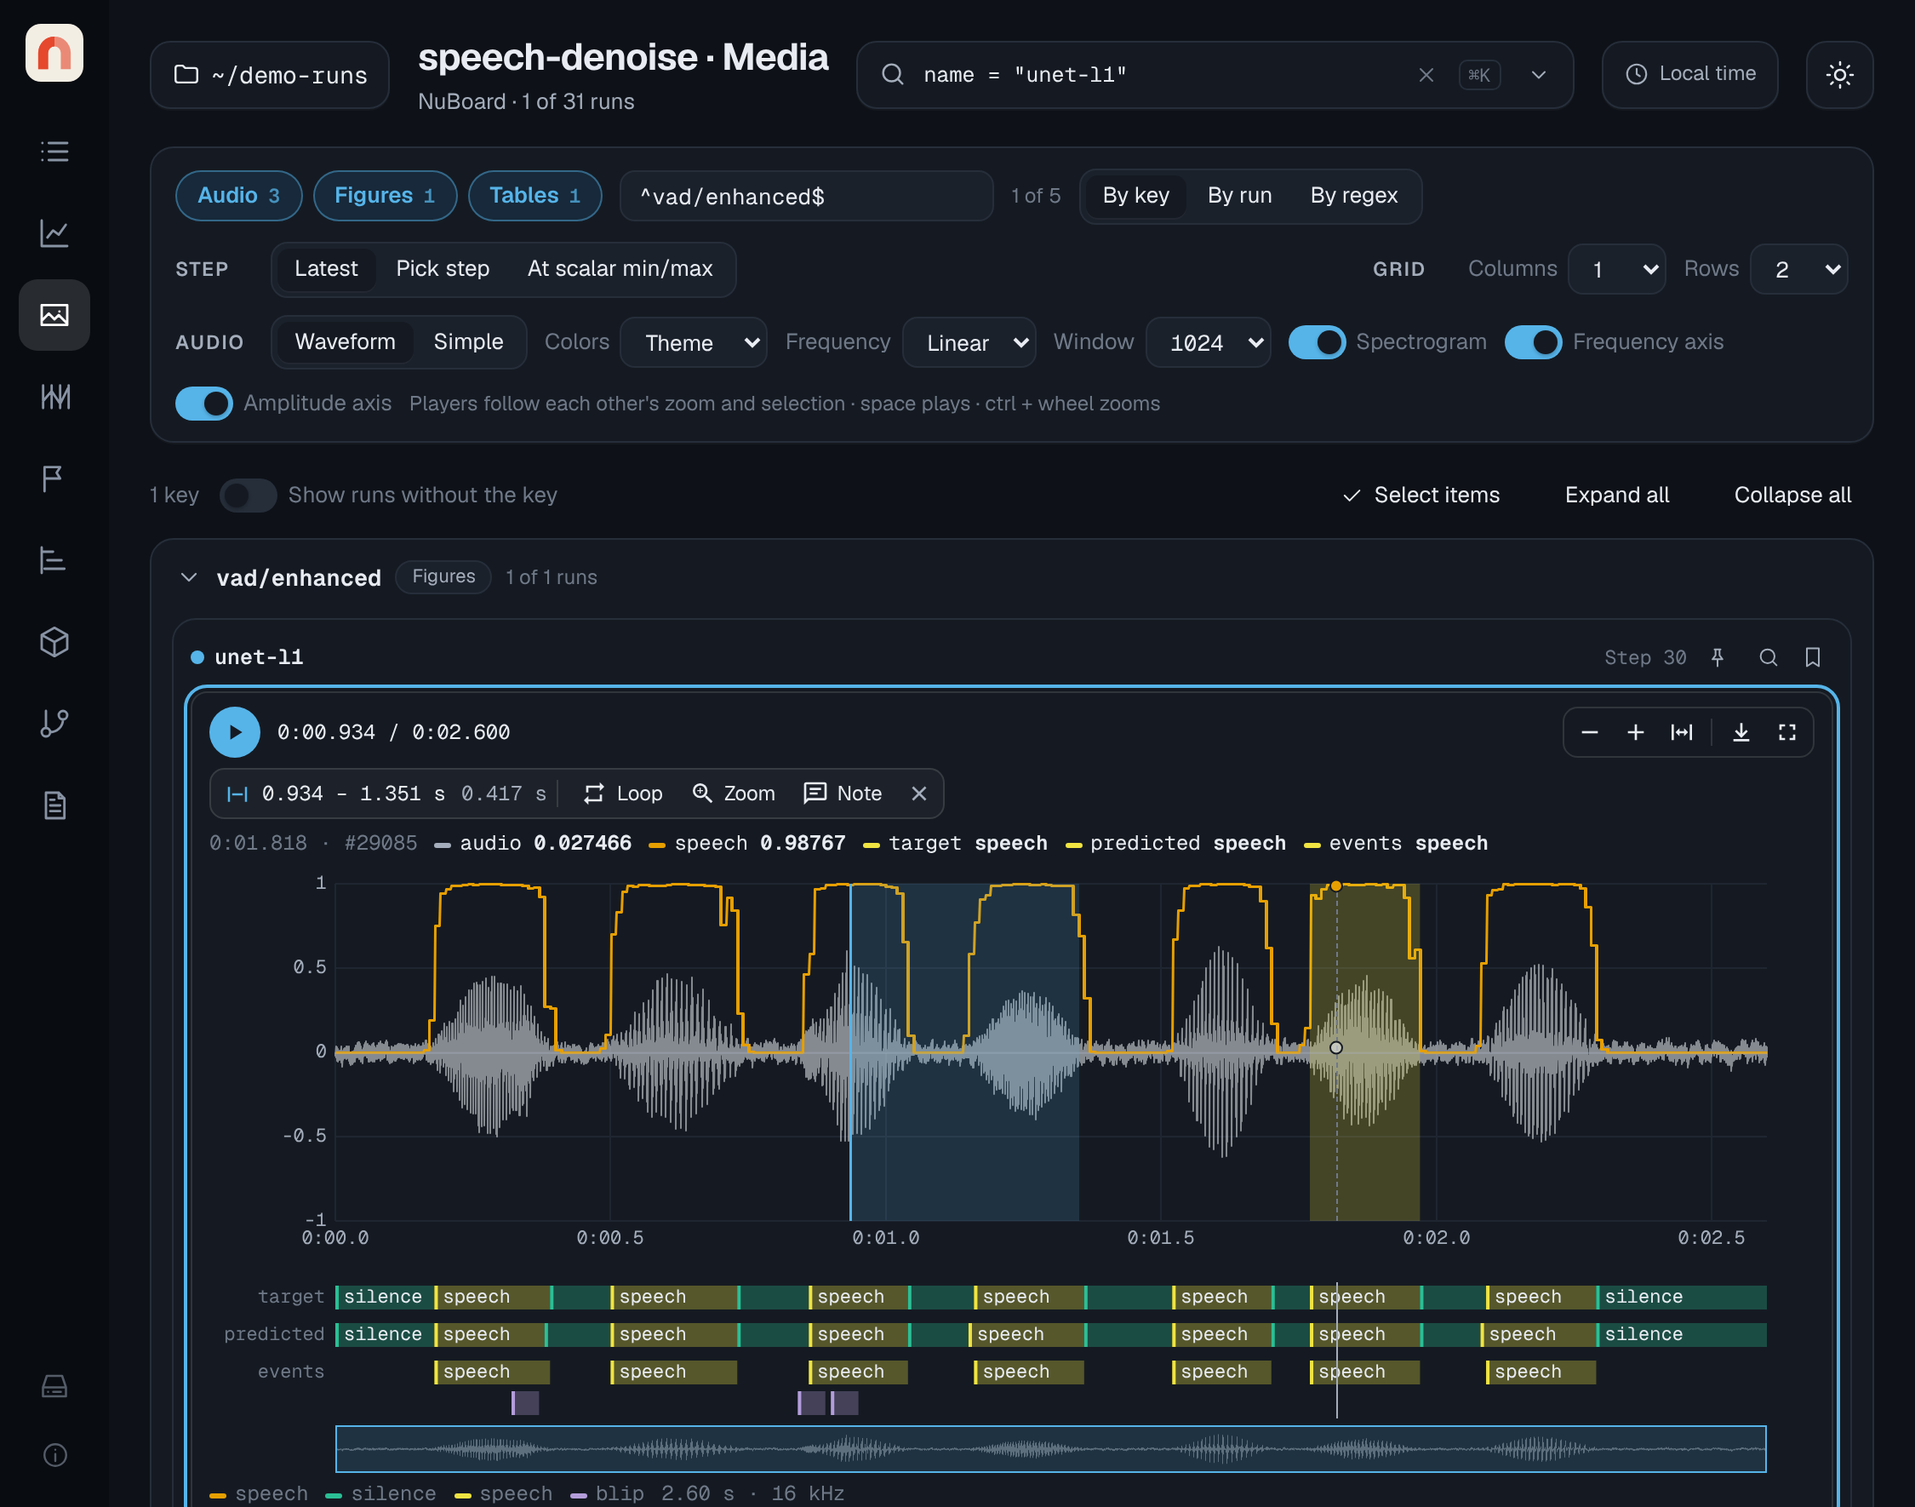
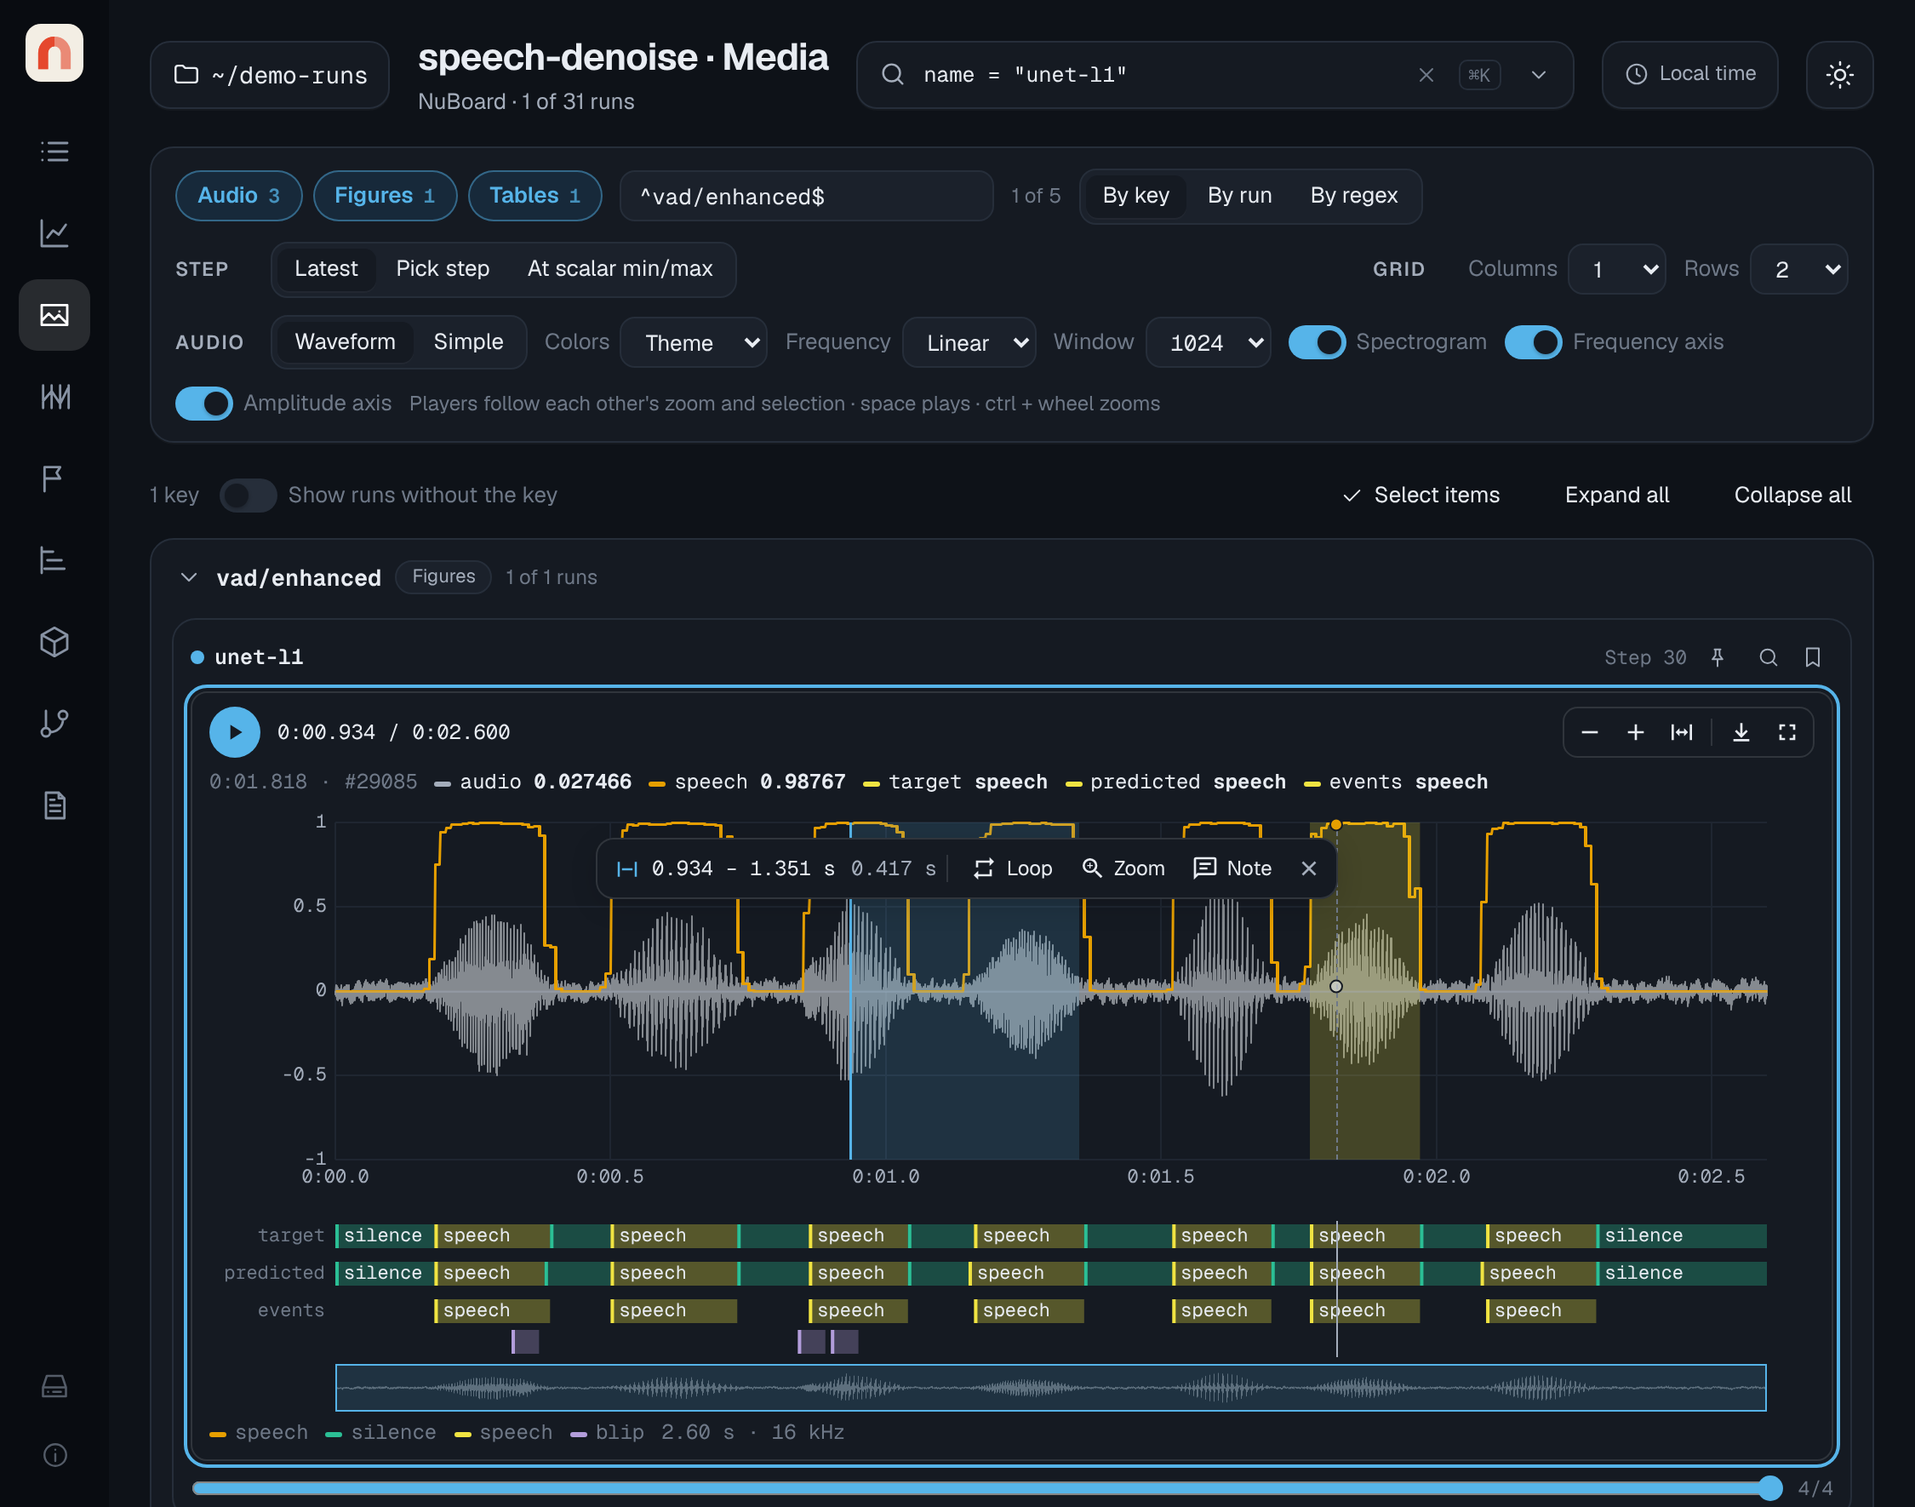
Audio toolbar: selection and band controls float over the waveform, so the player never changes size

Changed region(s): [[0.0933, 0.4972, 0.9644, 1.0], [0.7467, 0.4972, 0.7778, 0.5282]]

diff --git a/frontend/src/lib/waveplot.ts b/frontend/src/lib/waveplot.ts
@@ -142,17 +142,12 @@ export function mountWaveform(
   audio.preload = 'auto';
   audio.hidden = true;
   audio.src = input.audioSrc;
-  // the row under the toolbar is always there, at one height: a hint, the selection's chip, or the
-  // note form while it is open, so the plot never moves when one of them comes or goes
-  const ctx = el('div', 'nbwf-ctx');
-  const ctxHint = el(
-    'span',
-    'nbwf-hint nbwf-ctxhint',
-    editable ? 'Drag to select a section to loop, zoom to or note' : 'Drag to select a section to loop or zoom to',
-  );
-  ctx.append(ctxHint, selBox, form);
-  bar.append(play, time, zoomBox, ctx, read);
-  root.append(bar, notesLane, plotEl);
+  // the selection's controls, and the note form while it is open, float over the top of the plot,
+  // above the selection (see placeFloat), so the figure never changes size when they come or go
+  const floatBox = el('div', 'nbwf-float');
+  floatBox.append(selBox, form);
+  bar.append(play, time, zoomBox, read);
+  root.append(bar, notesLane, plotEl, floatBox);
   if (tracks.length) root.append(lanes);
   root.append(overview, cap, audio);
   // clicking the plot or the overview gives the figure the focus, so Space then plays it (see onKey)
@@ -238,7 +233,7 @@ export function mountWaveform(
       el(
         'span',
         'nbwf-hint',
-        'Hover for values · Ctrl/⌘ + wheel zooms · Shift + wheel scrolls · double-click shows all',
+        `Drag to select${editable ? ' and note' : ''} · Ctrl/⌘ + wheel zooms · Shift + wheel scrolls · double-click shows all`,
       ),
     );
   /** Horizontal position in the plot element of time `t`, in CSS pixels. */
@@ -413,6 +408,25 @@ export function mountWaveform(
     plot.setSelect({ left: a, top: 0, width: Math.max(0, b - a), height: plot.bbox.height / devicePixelRatio }, false);
     selText.textContent = `${sel[0].toFixed(3)} – ${sel[1].toFixed(3)} s`;
     selSpan.textContent = `${(sel[1] - sel[0]).toFixed(3)} s`;
+    placeFloat();
+  };
+  /** Over the top of the plot, centred over the selection (the note form centred), inside the plot. */
+  const placeFloat = () => {
+    if (!plot || (selBox.hidden && form.hidden)) return;
+    const rr = root.getBoundingClientRect();
+    const pr = plotEl.getBoundingClientRect();
+    const left0 = pr.left - rr.left + plot.bbox.left / devicePixelRatio;
+    const w = plot.bbox.width / devicePixelRatio;
+    const width = floatBox.offsetWidth;
+    let x = left0 + (w - width) / 2;
+    if (sel && form.hidden) {
+      const a = Math.max(0, plot.valToPos(sel[0], 'x'));
+      const b = Math.min(w, plot.valToPos(sel[1], 'x'));
+      x = left0 + (a + b) / 2 - width / 2;
+    }
+    x = Math.max(left0 + 8, Math.min(left0 + w - width - 8, x));
+    floatBox.style.left = `${Math.round(x)}px`;
+    floatBox.style.top = `${Math.round(pr.top - rr.top + plot.bbox.top / devicePixelRatio + 8)}px`;
   };
   const noteAtSelection = () =>
     sel ? notes.find((n) => Math.abs(sel![0] - n.start) < 1e-3 && Math.abs(sel![1] - n.end) < 1e-3) : undefined;
@@ -441,11 +455,13 @@ export function mountWaveform(
     saveButton.textContent = note ? 'Save' : 'Add';
     formTime.textContent = `${clock(sel[0], 3)} – ${clock(sel[1], 3)}`;
     form.hidden = false;
+    placeFloat();
     noteText.focus();
   };
   const closeForm = () => {
     form.hidden = true;
     editing = null;
+    placeFloat();
   };
   const save = (next: WaveformNote[]) => {
     notes = next;

diff --git a/frontend/src/audio/player.js b/frontend/src/audio/player.js
@@ -61,6 +61,7 @@
     fsHeader: $('fs-header'),
     fsTitle: $('fs-title'),
     fsClose: $('fs-close'),
+    context: $('context'),
     band: $('band'),
     bandToggle: $('band-toggle'),
     bandLo: $('band-lo'),
@@ -141,7 +142,10 @@
       onRender(event.data.args, event.data.theme);
     }
   });
-  new ResizeObserver(updateHeight).observe(el.player);
+  new ResizeObserver(() => {
+    updateHeight();
+    placeFloat();
+  }).observe(el.player);
   send('streamlit:componentReady', { apiVersion: 1 });
 
   // -------------------------------------------------------------------------
@@ -989,6 +993,7 @@
     showBand();
     requestSpectrogram();
     updateHeight();
+    placeFloat();
 
     if (!fromRemote) broadcast({ type: 'band', band: band, on: bandOn });
   }
@@ -1208,6 +1213,35 @@
     }
 
     updateHeight();
+    placeFloat();
+  }
+
+  //: Float the selection's and band's controls over the top of the
+  //: waveform, centred over the selection (or at the right with only a
+  //: band), and kept inside the waveform
+  function placeFloat() {
+    const box = el.context;
+
+    if (getComputedStyle(box).display === 'none') return;
+
+    const pr = el.player.getBoundingClientRect();
+    const wr = el.waveform.getBoundingClientRect();
+    const width = box.offsetWidth;
+    const lo = wr.left - pr.left + 8;
+    const hi = wr.right - pr.left - width - 8;
+    let left = hi;
+
+    if (selection && ws && ready && el.noteForm.hidden) {
+      const pps = currentPxPerSec();
+      const a = Math.max(0, selection.start * pps - ws.getScroll());
+      const b = Math.min(wr.width, selection.end * pps - ws.getScroll());
+      left = wr.left - pr.left + (a + b) / 2 - width / 2;
+    } else if (!el.noteForm.hidden) {
+      left = wr.left - pr.left + (wr.width - width) / 2;
+    }
+
+    box.style.left = `${Math.round(Math.max(lo, Math.min(hi, left)))}px`;
+    box.style.top = `${Math.round(wr.top - pr.top + 8)}px`;
   }
 
   function applyRemoteSelection(start, end) {
@@ -1277,6 +1311,7 @@
     el.noteSubmit.textContent = note ? 'Save' : 'Add';
     el.noteTime.textContent = `${formatTime(selection.start)} – ${formatTime(selection.end)}`;
     el.noteForm.hidden = false;
+    placeFloat();
     el.noteText.focus();
     updateHeight();
   }
@@ -1287,6 +1322,7 @@
     el.noteForm.hidden = true;
     el.noteText.value = '';
     updateHeight();
+    placeFloat();
   }
 
   function submitNote() {
@@ -1487,12 +1523,14 @@
     ws.on('interaction', (t) => broadcast({ type: 'seek', time: t }));
     ws.on('scroll', (start) => {
       drawRuler();
+      placeFloat();
       requestSpectrogram();
 
       if (ready) broadcast({ type: 'view', pps: currentPxPerSec(), start });
     });
     ws.on('redrawcomplete', () => {
       drawRuler();
+      placeFloat();
       requestSpectrogram();
       updateHeight();
     });

diff --git a/frontend/e2e/viewer.spec.ts b/frontend/e2e/viewer.spec.ts
@@ -507,7 +507,7 @@ test('media page plots waveform figures, with exact values, region lanes, select
   await expect(readout).toContainText(/events\s*((blip|speech)(, (blip|speech))?|–)/);
 
   // dragging across a tenth of the plot selects it, and Zoom in shows just that; the zoom buttons
-  // stay where they were (the selection's controls have a place of their own)
+  // stay where they were (the selection's controls float over the top of the plot)
   const plus = fig.getByRole('button', { name: 'Zoom in', exact: true });
   const plusAt = (await plus.boundingBox())!;
   await page.mouse.move(box.x + box.width * 0.4, box.y + 40);
@@ -518,17 +518,17 @@ test('media page plots waveform figures, with exact values, region lanes, select
   expect(await plus.boundingBox()).toEqual(plusAt);
   await fig.getByRole('button', { name: 'Zoom in to the selection' }).click();
   // the middle of the plot is now the middle of 1.04 to 1.3 s, then of the whole clip again
-  await over.hover({ position: { x: box.width / 2, y: 20 } });
+  await over.hover({ position: { x: box.width / 2, y: box.height * 0.7 } });
   await expect(readout).toContainText(/0:01\.1[5-9]/);
   // the demo's live run makes the page fetch its media again every few seconds: the figure keeps its
   // zoom and selection (it is not mounted again for an equal item)
   await fig.evaluate((el) => (el.dataset.kept = 'yes'));
   await page.waitForTimeout(5000);
   await expect(fig).toHaveAttribute('data-kept', 'yes');
-  await over.hover({ position: { x: box.width / 2, y: 20 } });
+  await over.hover({ position: { x: box.width / 2, y: box.height * 0.7 } });
   await expect(readout).toContainText(/0:01\.1[5-9]/);
   await fig.getByRole('button', { name: 'Fit' }).click();
-  await over.hover({ position: { x: box.width / 2 + 1, y: 20 } });
+  await over.hover({ position: { x: box.width / 2 + 1, y: box.height * 0.7 } });
   await expect(readout).toContainText(/0:01\.(29|30)/);
 
   // a note on the selection is saved with the run, and is there after a reload

diff --git a/frontend/src/audio/player.css b/frontend/src/audio/player.css
@@ -218,18 +218,28 @@ select.seg {
 }
 
 /* The selection and the frequency band, each in a chip under the toolbar */
-/* One row of fixed height, always there, so nothing below it moves when a
-   selection, a band or the note form comes or goes: a hint when it is empty,
-   the chips otherwise (scrolling sideways in a very narrow player), and the
-   note form in place of the chips while it is open */
+/* The selection's and the band's controls float over the top of the
+   waveform, above the selection (see placeFloat), so the player never
+   changes size: they come and go without moving anything. The note form
+   takes their place while it is open. */
+.player {
+  position: relative;
+}
+
 .context {
+  position: absolute;
+  z-index: 6;
   display: flex;
   align-items: center;
-  gap: 6px;
-  height: 30px;
-  margin-bottom: 8px;
+  gap: 0;
+  max-width: calc(100% - 32px);
+  padding: 2px;
+  box-sizing: border-box;
+  border: 1px solid var(--border);
+  border-radius: 0.65rem;
+  background: var(--bg);
+  box-shadow: 0 4px 16px rgba(0, 0, 0, 0.14);
   overflow-x: auto;
-  overflow-y: hidden;
   scrollbar-width: none;
 }
 
@@ -237,19 +247,25 @@ select.seg {
   display: none;
 }
 
-.context-hint {
-  min-width: 0;
-  overflow: hidden;
-  color: var(--muted);
-  font-size: 11.5px;
-  white-space: nowrap;
-  text-overflow: ellipsis;
-}
-
-.player:not([data-spectrogram]) .hint-band,
-.context:has(> .chip:not([hidden])) .context-hint,
+.context:not(:has(> .chip:not([hidden]), > .note-form:not([hidden]))),
 .context:has(> .note-form:not([hidden])) > :not(.note-form) {
   display: none;
+}
+
+.context:has(> .note-form:not([hidden])) {
+  width: min(560px, calc(100% - 32px));
+  padding: 3px 3px 3px 8px;
+}
+
+.context .chip {
+  border: 0;
+  background: transparent;
+}
+
+.context .chip:not([hidden]) ~ .chip:not([hidden]) {
+  margin-left: 2px;
+  border-left: 1px solid var(--border);
+  border-radius: 0;
 }
 
 .chip {

diff --git a/frontend/src/lib/waveplot.css b/frontend/src/lib/waveplot.css
@@ -36,36 +36,45 @@
   grid-column: 3;
   grid-row: 1;
 }
-/* the row under the toolbar: one height always (see waveplot.ts) */
-.nbwf-ctx {
-  grid-column: 1 / -1;
+/* the selection's controls float over the top of the plot (see waveplot.ts), so the figure never
+   changes size; the note form takes their place while it is open */
+.nbwf {
+  position: relative;
+}
+.nbwf-float {
+  position: absolute;
+  z-index: 6;
   display: flex;
   align-items: center;
-  gap: 6px;
-  height: 30px;
-  min-width: 0;
+  max-width: calc(100% - 32px);
+  padding: 2px;
+  box-sizing: border-box;
+  border: 1px solid var(--nbwf-line);
+  border-radius: 0.65rem;
+  background: var(--panel);
+  box-shadow: 0 4px 16px rgb(0 0 0 / 0.14);
   overflow-x: auto;
-  overflow-y: hidden;
   scrollbar-width: none;
+  font-size: 12px;
+  --nbwf-hover: color-mix(in srgb, var(--text) 8%, transparent);
+  --nbwf-line: color-mix(in srgb, var(--text) 13%, transparent);
 }
-.nbwf-ctx::-webkit-scrollbar {
+.nbwf-float::-webkit-scrollbar {
   display: none;
 }
-.nbwf-ctx > .nbwf-sel {
+.nbwf-float:not(:has(> .nbwf-sel:not([hidden]), > .nbwf-form:not([hidden]))),
+.nbwf-float:has(> .nbwf-form:not([hidden])) > :not(.nbwf-form),
+.nbwf-float > [hidden] {
+  display: none;
+}
+.nbwf-float:has(> .nbwf-form:not([hidden])) {
+  width: min(560px, calc(100% - 32px));
+  padding: 3px 3px 3px 8px;
+}
+.nbwf-float > .nbwf-sel {
   flex: none;
-}
-.nbwf-ctx > .nbwf-sel[hidden] {
-  display: none;
-}
-.nbwf-ctxhint {
-  min-width: 0;
-  overflow: hidden;
-  white-space: nowrap;
-  text-overflow: ellipsis;
-}
-.nbwf-ctx:has(> .nbwf-sel:not([hidden])) > .nbwf-ctxhint,
-.nbwf-ctx:has(> .nbwf-form:not([hidden])) > :not(.nbwf-form) {
-  display: none;
+  border: 0;
+  background: transparent;
 }
 /* the view's buttons in one outlined group, and the selection's in a chip, as in the audio player
    (audio/player.css) */

diff --git a/frontend/audio.html b/frontend/audio.html
@@ -56,10 +56,7 @@
           </button>
         </span>
       </div>
-      <div class="context">
-        <span class="context-hint"
-          >Drag to select<span class="hint-band"> · Alt-drag on the spectrogram for a frequency band</span></span
-        >
+      <div id="context" class="context">
         <span id="selection" class="chip" role="group" aria-label="Selection" hidden>
           <svg class="chip-icon" viewBox="0 0 24 24" aria-hidden="true">
             <path d="M3 5h2v14H3zm16 0h2v14h-2zM7 11h10v2H7z" />

diff --git a/docs/guide/viewer.md b/docs/guide/viewer.md
@@ -666,9 +666,9 @@ sample under it, recomputed as you zoom, so long files stay fast and single
 samples show when zoomed in. Hovering shows the time, sample index and exact
 values, and the label of each region track logged with the figure (drawn in
 lanes under the plot, a row per class where classes overlap). Drag to select a
-section, then loop it, zoom to it or add a **Note** from the chip that shows
-in the row under the toolbar (always there, so the plot never moves), as in
-the audio player; notes show in a lane above
+section, then loop it, zoom to it or add a **Note** from the bar that floats
+over the top of the plot, above the selection, as in the audio player (the
+figure never changes size); notes show in a lane above
 the plot and are saved like audio notes. − / + / fit, Ctrl/⌘ + wheel and
 double-click zoom, Shift + wheel scrolls, and the overview below the plot moves
 the view. The full screen button (last in the toolbar) spreads the figure over the
@@ -765,12 +765,12 @@ remembered):
   drag-to-select with loop (`L`) and zoom-to-selection (`Z`), playback speed,
   and full screen (`F`). The toolbar keeps play and the time on the left and
   the view's controls in one group on the right (speed, − / zoom slider / +,
-  fit, full screen). The row under it is always there, at one height, so
-  nothing moves as you click: it shows a hint until you select, then a chip
-  with the selection's start, end and length and buttons to **Loop**,
-  **Zoom** to it, add a **Note** and × to clear it. A frequency band gets a
-  chip of its own next to it, and the note form takes the row while it is
-  open. In a narrow player
+  fit, full screen). A selection's controls float over the top of the waveform,
+  above the selection: its start, end and length and buttons to **Loop**,
+  **Zoom** to it, add a **Note** and × to clear it. A frequency band's
+  controls join them (or float on their own at the right), and the note form
+  opens in the same place. They never push the player around, so its size
+  stays the same whatever you click. In a narrow player
   the chips keep only their icons (hover one for its name). Space plays and pauses once you have clicked the
   player, and in full screen. The spectrogram is computed in the browser (Hann
   window of 1024 samples, levels in dB relative to a full-scale sine on a

diff --git a/docs/changelog.md b/docs/changelog.md
@@ -12,10 +12,11 @@
   [Audio](guide/viewer.md#audio).
 - **A tidier audio toolbar.** The audio player and waveform figures share one
   design: play and time on the left, the view's controls (speed, zoom, fit,
-  download, full screen) in one group on the right, and the selection and the
-  frequency band as chips in a row underneath with icon buttons and a lighter
-  ×. That row keeps one height (a hint when empty, the note form while it is
-  open), so nothing moves when you select, add a band or write a note.
+  download, full screen) in one group on the right. The selection's and the
+  frequency band's controls, with icon buttons and a lighter ×, float over
+  the top of the waveform above the selection, and the note form opens
+  there too, so the player never changes size when you select, add a band or
+  write a note.
   Narrow players keep only the icons. See [Audio](guide/viewer.md#audio).
 - **Select on the home page.** The docs home page has a Select tab next to
   Timeline, and its audio screenshot shows the new toolbar.
